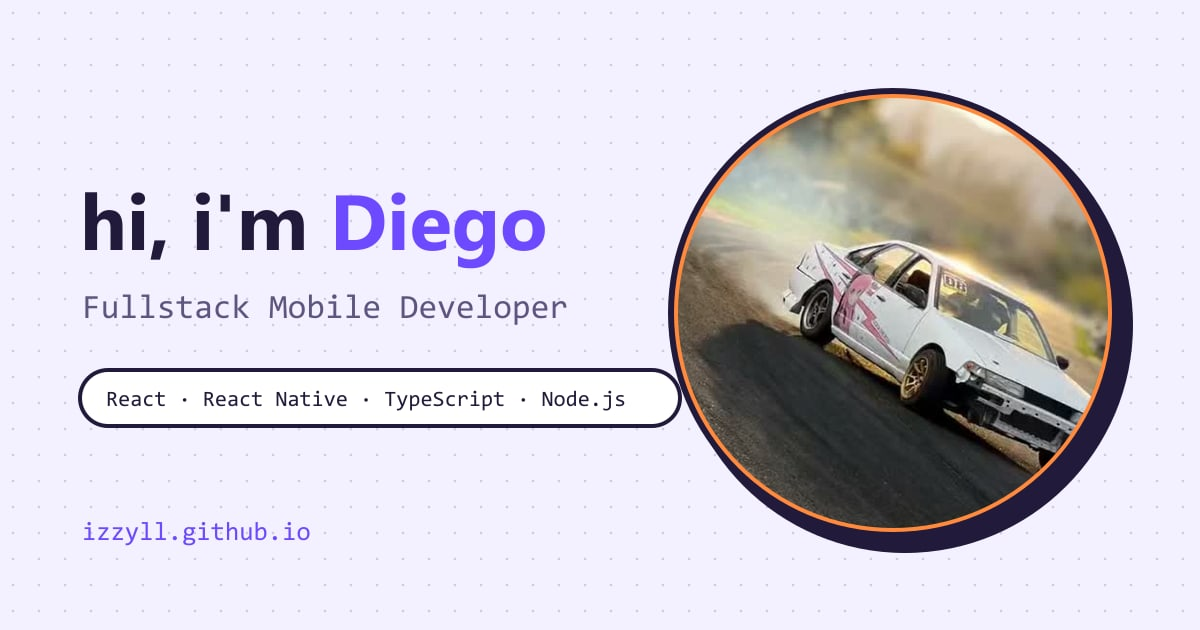
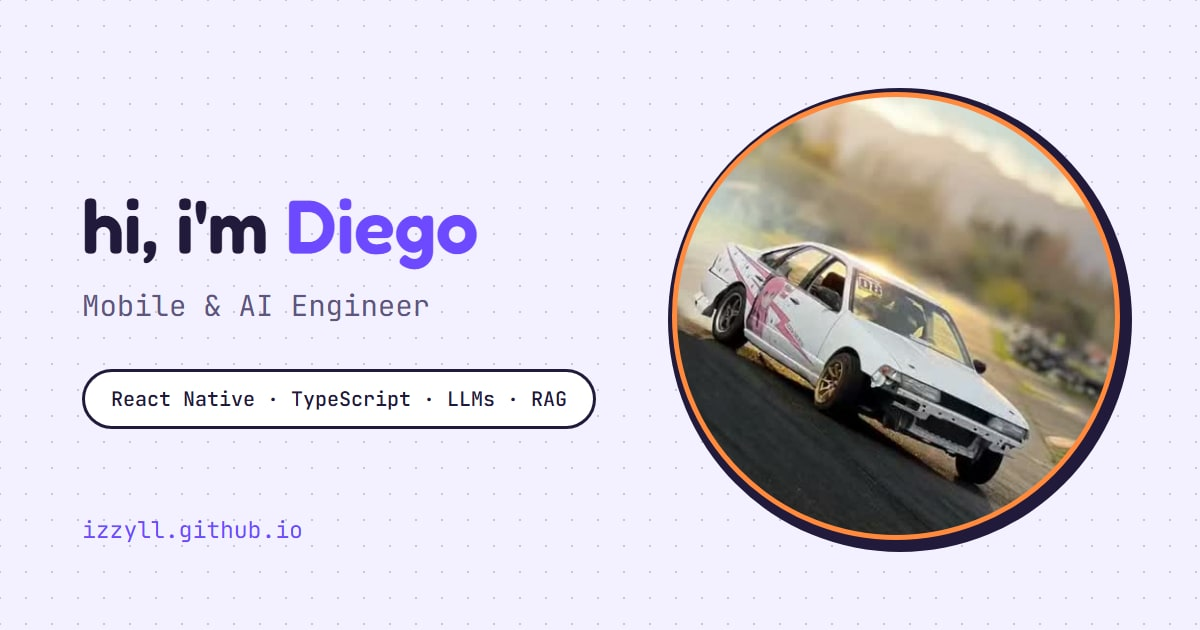
update exp

diff --git a/src/data/portfolio.ts b/src/data/portfolio.ts
@@ -92,6 +92,22 @@ export const experience: Job[] = [
 
 export const projects: Project[] = [
   {
+    name: 'ThumbStudio',
+    when: {
+      en: 'Personal project · AI web app · Next.js + Cloudflare',
+      es: 'Proyecto personal · App web con IA · Next.js + Cloudflare',
+    },
+    description: {
+      en: 'Generates YouTube thumbnails in the style of a channel\'s most viewed videos, without copying their ideas. It pulls the top thumbnails (Shorts excluded), extracts a style profile in the browser (k-means palette, brightness, free space for the title), and a vision LLM proposes editable concepts for your video. Images come from the visitor\'s own models (Ollama, LM Studio and ComfyUI with SDXL/FLUX + Redux running on their PC) or their own keys (Claude, Gemini, OpenAI, fal, Replicate), which never leave the browser. Includes a hardware check that suggests local or cloud models, and a YouTube-like feed to compare the results. Static site on Cloudflare Pages, with Functions and a KV cache for the YouTube API.',
+      es: 'Genera miniaturas de YouTube con el estilo de los videos más vistos de un canal, sin copiar sus ideas. Trae las miniaturas top (sin Shorts), extrae un perfil de estilo en el navegador (paleta con k-means, brillo, espacio libre para el título) y un LLM con visión propone conceptos editables para tu video. Las imágenes salen de los modelos del propio visitante (Ollama, LM Studio y ComfyUI con SDXL/FLUX + Redux corriendo en su PC) o de sus propias keys (Claude, Gemini, OpenAI, fal, Replicate), que nunca salen del navegador. Incluye una revisión del hardware que sugiere modelos locales o en la nube, y un feed tipo YouTube para comparar los resultados. Sitio estático en Cloudflare Pages, con Functions y caché en KV para la API de YouTube.',
+    },
+    stack: ['LLMs', 'Vision models', 'ComfyUI', 'Ollama', 'Next.js', 'TypeScript', 'Canvas', 'Cloudflare'],
+    links: [
+      { href: 'https://ts.dgdev.cl/', label: 'proj.site' },
+      { href: 'https://github.com/izzyll/thumbstudio-web', label: 'proj.code' },
+    ],
+  },
+  {
     name: 'Hikui Koe',
     when: {
       en: 'Personal project · AI desktop app · Electron + LLMs',
